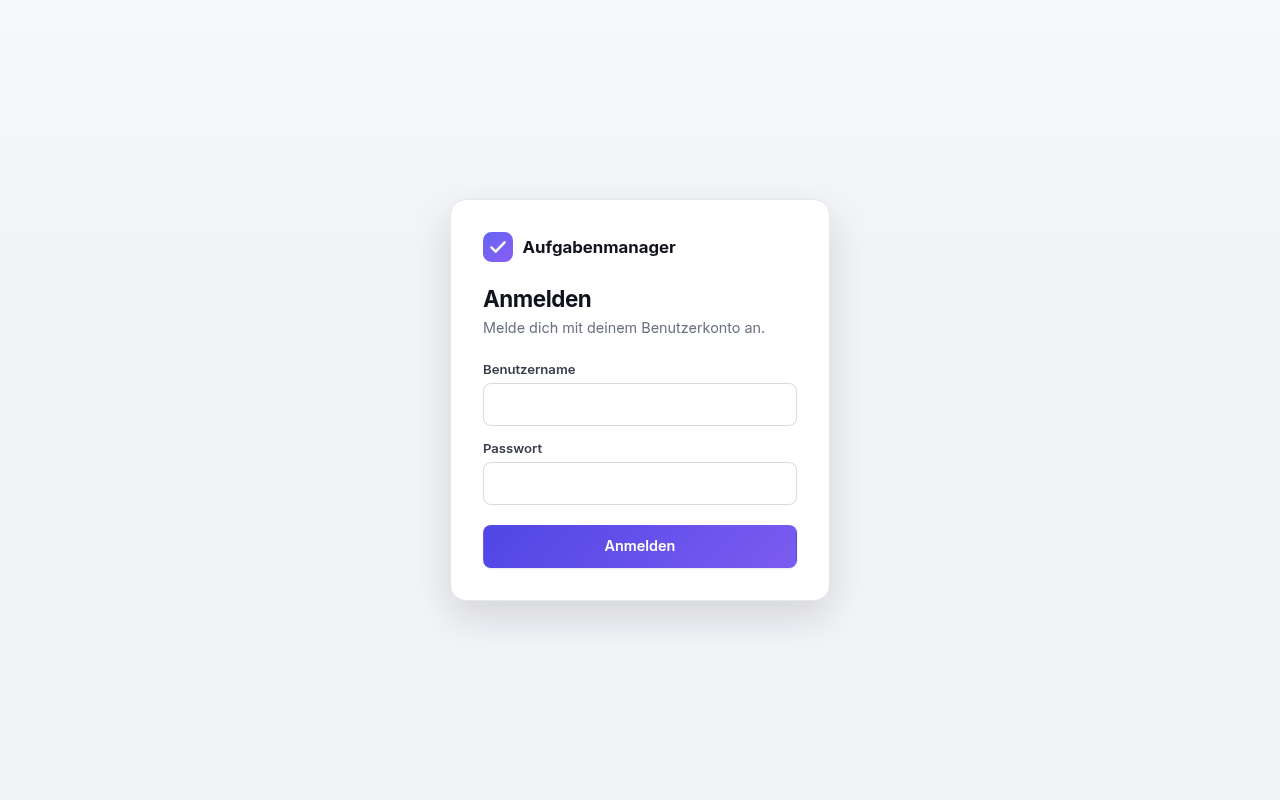
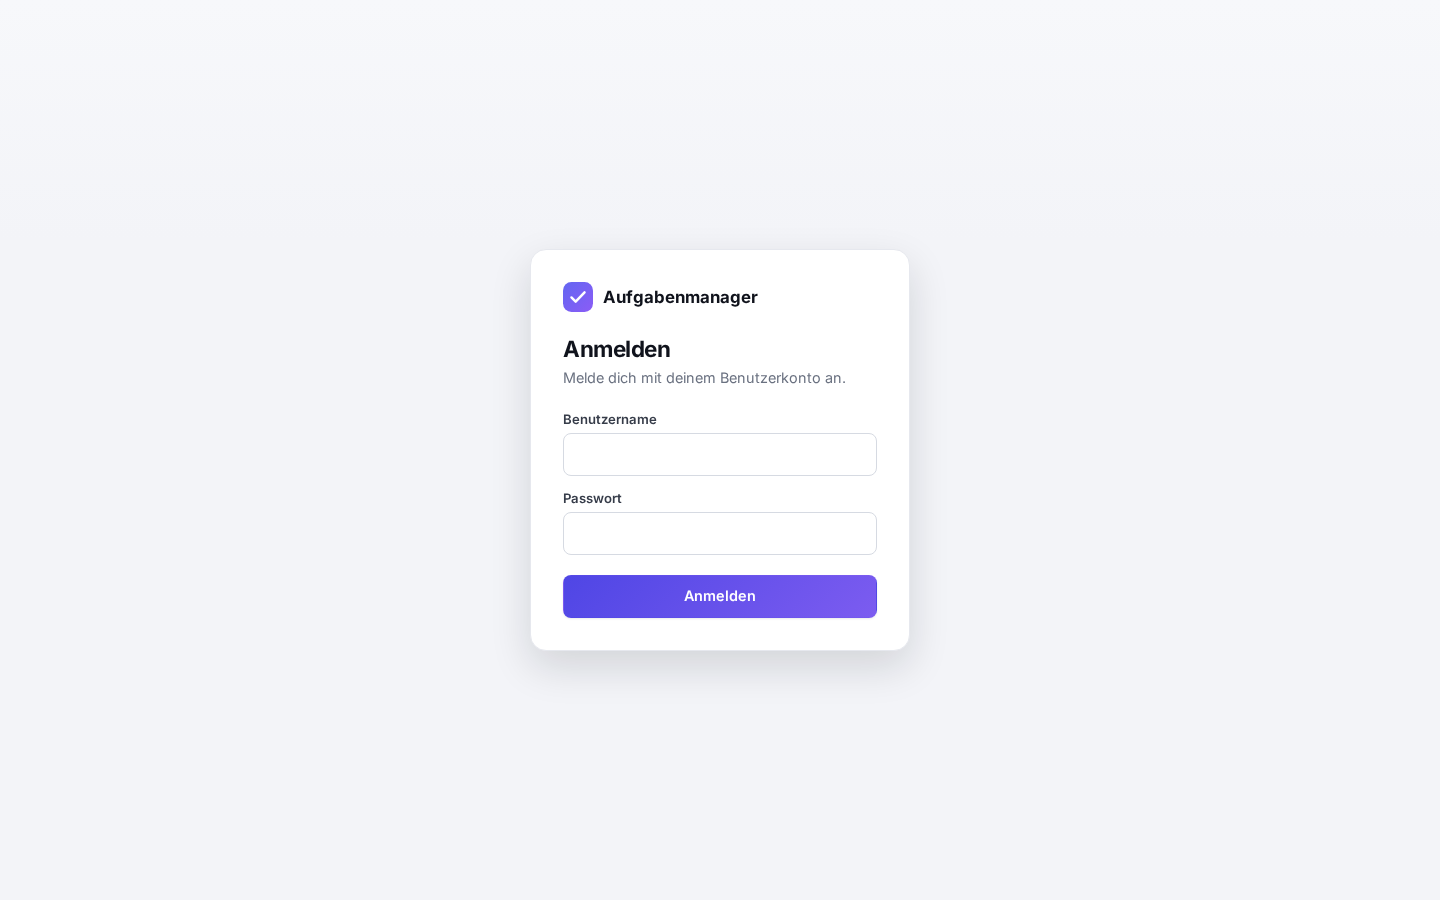
docs: Screenshots der Kernseiten für Fallstudie

Changed region(s): [[0.3438, 0.2812, 0.6562, 0.75]]

diff --git a/README.md b/README.md
@@ -59,19 +59,22 @@ cd frontend && npm test
 ```
 
 ## Screenshots
-Anmeldung, rollenabhängiges Dashboard, Benutzerverwaltung, Projektliste und Projektdetail
-(mit Fortschrittsbalken). Erzeugt auf den Seed-Daten.
+Anmeldung, rollenabhängiges Dashboard, Projektliste (Projektleiter- und Mitarbeitersicht),
+Projektdetail (mit Fortschrittsbalken), Aufgaben-Dialog und Benutzerverwaltung. Erzeugt auf
+den Seed-Daten. Details je Screenshot: [docs/screenshots/README.md](docs/screenshots/README.md).
 
 | | |
 |---|---|
-| **Login** | **Dashboard (Admin)** |
-| ![Login](docs/screenshots/01-login.png) | ![Dashboard](docs/screenshots/02-dashboard-admin.png) |
-| **Benutzerverwaltung** | **Projektliste** |
-| ![Benutzerverwaltung](docs/screenshots/03-benutzerverwaltung.png) | ![Projektliste](docs/screenshots/04-projektliste.png) |
+| **Login** | **Dashboard (Projektleiter)** |
+| ![Login](docs/screenshots/01-login.png) | ![Dashboard](docs/screenshots/02-dashboard-projektleiter.png) |
+| **Projektliste (Projektleiter)** | **Projektdetail** |
+| ![Projektliste](docs/screenshots/03-projektliste.png) | ![Projektdetail](docs/screenshots/04-projektdetail.png) |
+| **Aufgaben-Dialog** | **Benutzerverwaltung** |
+| ![Aufgaben-Dialog](docs/screenshots/05-aufgaben-dialog.png) | ![Benutzerverwaltung](docs/screenshots/06-benutzerverwaltung.png) |
 
-**Projektdetail (Fortschritt, Mitglieder, Aufgaben)**
+**Projektliste (Mitarbeiter, gefilterte Sicht ohne Anlegen-Formular)**
 
-![Projektdetail](docs/screenshots/05-projektdetail.png)
+![Projektliste Mitarbeiter](docs/screenshots/07-projektliste-mitarbeiter.png)
 
 ## Dokumentation & Diagramme
 Im Ordner `docs/` (Mermaid, auf GitHub direkt gerendert):

diff --git a/docs/screenshots/README.md b/docs/screenshots/README.md
@@ -1,0 +1,14 @@
+# Screenshots
+
+Automatisiert mit Playwright erzeugt (Chromium, 1440×900) auf Basis der Seed-Daten
+(`DataSeeder`). Alle Screenshots entstehen aus echten Logins gegen die laufende App.
+
+- **01-login.png** – Login-Seite, unausgefüllt.
+- **02-dashboard-projektleiter.png** – Dashboard als `pleiter` (PROJEKTLEITER).
+- **03-projektliste.png** – Projektliste als `pleiter`, inkl. Formular „Neues Projekt“ (US2).
+- **04-projektdetail.png** – Projektdetail „Website-Relaunch“ als `pleiter`: Fortschrittsbalken,
+  Mitglieder und Aufgaben in allen drei Status offen/in Bearbeitung/erledigt (US5, US6).
+- **05-aufgaben-dialog.png** – Geöffneter „Neue Aufgabe“-Dialog als `user1` (MITARBEITER, US4).
+- **06-benutzerverwaltung.png** – Benutzerverwaltung als `admin` (ADMIN, US1).
+- **07-projektliste-mitarbeiter.png** – Projektliste als `user1`: gefilterte Sicht ohne
+  Anlegen-Formular, nur berechtigte Projekte (US8).